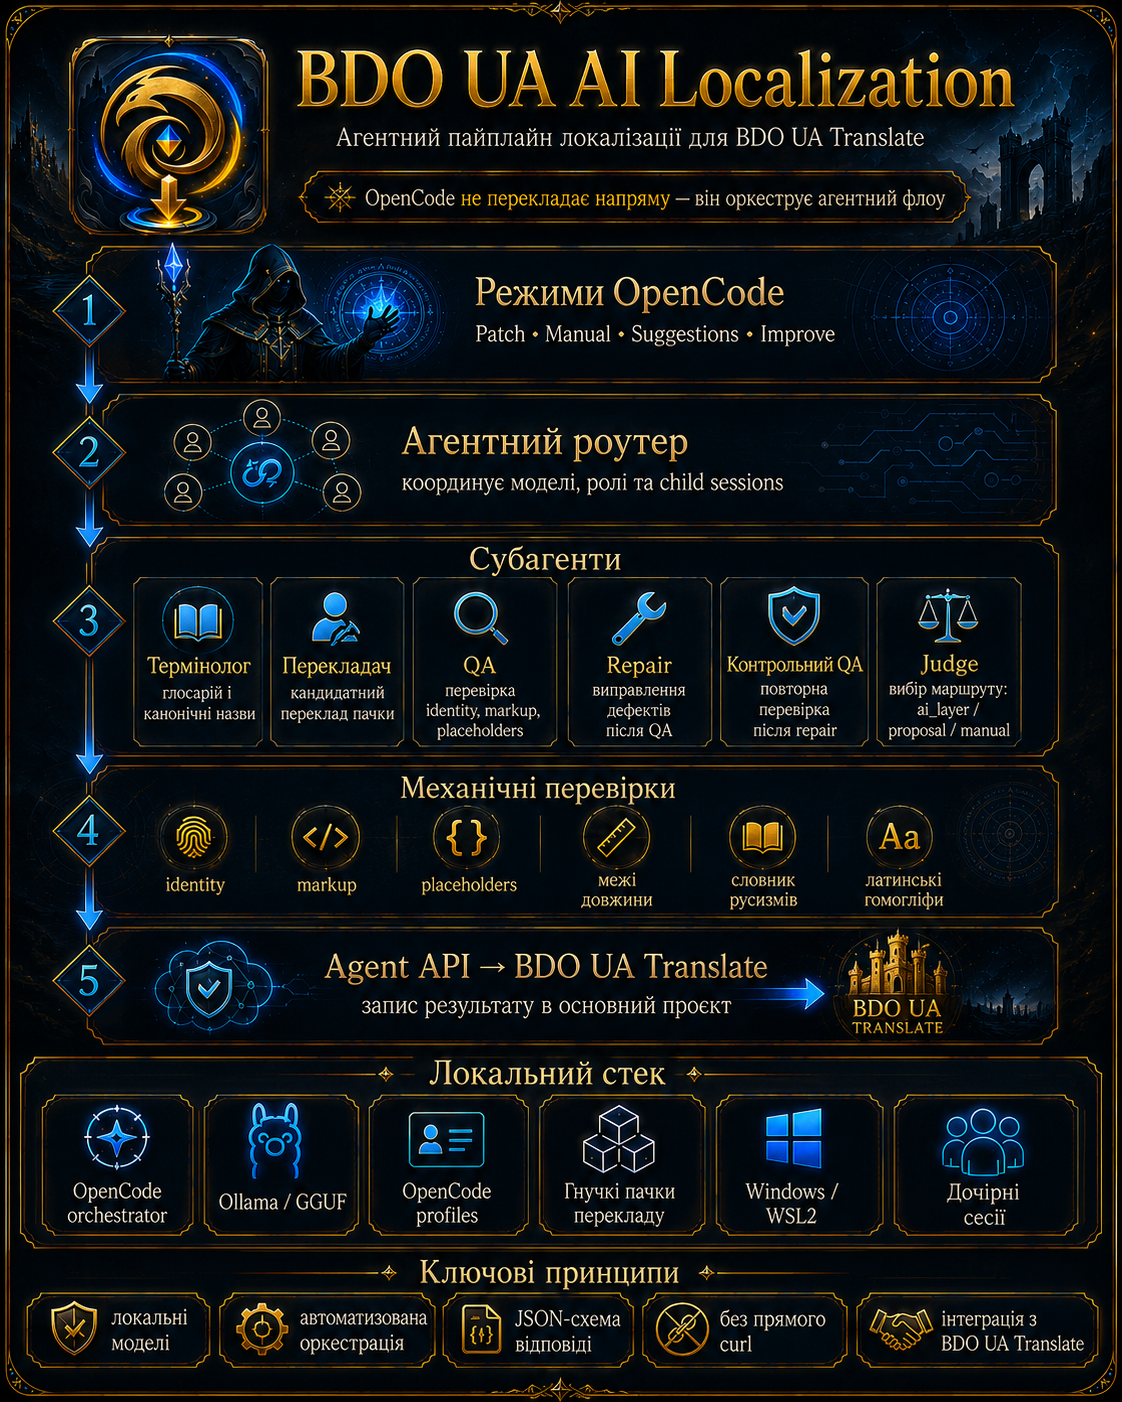
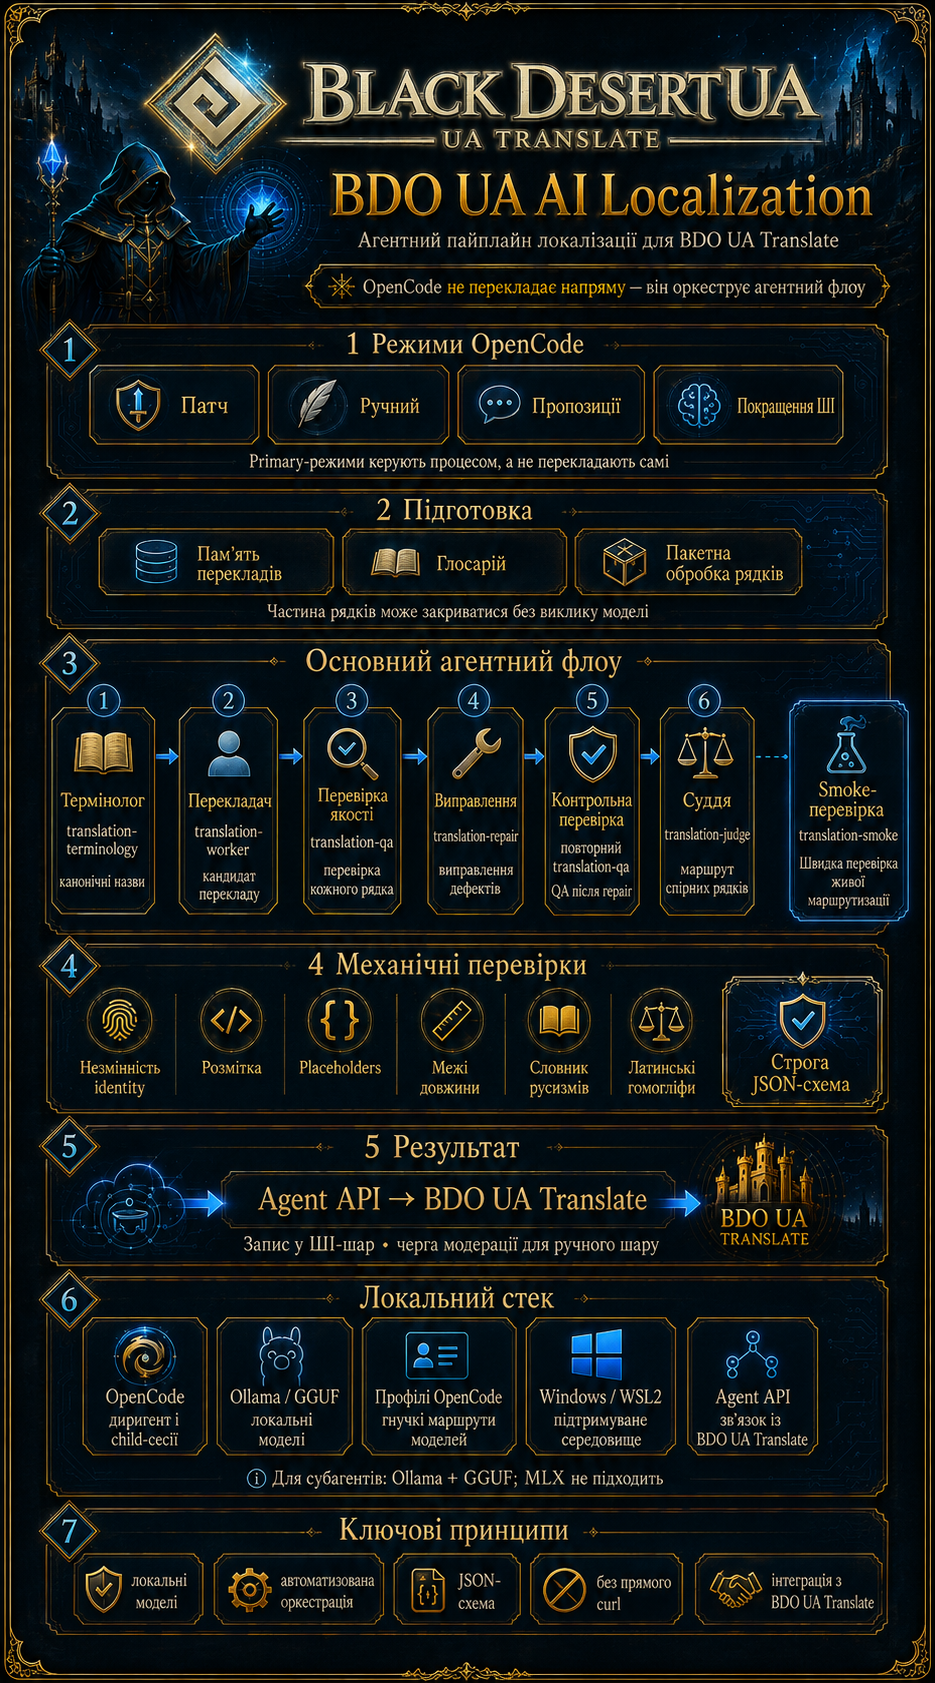
Версія: 2.1.6
Норматив поповнено секцією §12 «Клас відмови: тихий збій і фіктивна перевірка». Вона зібрана з двох діб розбору 2026-08-25…27, і кожне правило спирається на вимір, а не на гадку. Перевірка мусить іти тим самим шляхом і тим самим артефактом, що й робота, інакше вона дає хибний спокій: smog із власною спрощеною схемою півтора місяця зеленів там, де жоден хмарний субагент не працював. Порожній вивід не є відповіддю, а голе присвоєння з підстановки під `set -e` ковтає причину. Тест виконується на межі дозволеного, а не на зручному розмірі. Стан, який код пише, мусить хтось читати. Один вимір не робить правила, що тихо викидає дані. Виправлення мусить доходити до вже запущеної роботи. Дитяча сесія з нулем токенів і без інциденту формату є конфігурацією, а не тимчасовим збоєм. Факт роботи підтверджує сервер, а не звіт агента.

Найгостріші пʼять норм продубльовано в критичних заборонах, карта правил веде до §12 у всіх чотирьох дзеркалах, а gate перевіряє наявність цих текстів, щоб вони не зникли при наступному переписуванні.

Заодно закомічено оновлений банер, який власник підготував окремо.

Файли:
.cursorrules
.opencode/critical-rules.md
AGENTS.md
CLAUDE.md
QWEN.md
docs/AI_AGENT_RULES_REFERENCE.md
docs/assets/banner.png
scripts/agent-check.sh

diff --git a/docs/AI_AGENT_RULES_REFERENCE.md b/docs/AI_AGENT_RULES_REFERENCE.md
@@ -257,3 +257,43 @@
   check у `scripts/agent-check.sh` (`./bdo gate`) або hook.
 - §11.4 Номер правила сталий. Дублікат, номер чужої секції або посилання на
   неіснуюче `§N.M` є помилкою.
+
+## §12 Клас відмови: тихий збій і фіктивна перевірка
+
+Ця секція народжена з двох діб розбору 2026-08-25…27. Кожне правило тут має за
+собою вимір, а не гадку; хронологію див. `docs/FLOW_STATE.md`.
+
+- §12.1 Перевірка мусить проходити ТИМ САМИМ шляхом і тим самим артефактом, що й
+  робота. `translation-smoke` півтора місяця мав власну спрощену схему, тому
+  показував зелений маршрут на конфігурації, де жоден реальний субагент не
+  працював: `opencode-go` мав 0 успішних дитячих сесій із 3. Перевірка, яка не
+  торкається того, що ламається, гірша за її відсутність · вона дає хибний
+  спокій.
+- §12.2 Порожній вивід не є відповіддю. Кожен вихід дає машиночитану причину.
+  `mode start` і `run drive` вмирали під `set -e` мовчки, бо повідомлення про
+  помилку осідало у змінній; за це згоріла сесія з двох десятків команд. Голе
+  `x="$(cmd)"` там, де помилка можлива, є дефектом: або `if ! x="$(cmd)"`, або
+  явний вивід причини.
+- §12.3 Тест виконується на МЕЖІ дозволеного, а не на зручному розмірі. Схема з
+  полем на рядок була бездоганною на двох рядках і ламала ліміт провайдера на
+  ста, тобто дефект переїхав би з малих пачок на великі й проявився найпізніше.
+- §12.4 Стан, який код пише, мусить хтось читати. `state/quarantine.jsonl`
+  наповнювався з першого дня і не читався ніким: 18% рядків пачки осідали там
+  мовчки. Лічильник `window_rollovers` писався і не використовувався. Або
+  зʼявляється команда, що це показує, або запис прибирається.
+- §12.5 Один вимір не робить правила, яке тихо викидає дані. `source_equivalent`
+  оголосили невиправним за одним випадком (`AMD FidelityFX`), і на цьому втрачали
+  18% пачки, бо в решті випадків воркер просто не переклав. Правило, наслідком
+  якого є втрата рядка, вимагає вибірки, а не прикладу.
+- §12.6 Виправлення мусить доходити до вже запущеної роботи. OpenCode вантажить
+  промпти й плагіни один раз на старті, а staged-схема будувалась один раз на
+  пачку · тому виправлений формат не діяв ні в старій сесії, ні в пачці, що вже
+  висіла. Артефакт або перебудовується перед кожним використанням, або входить у
+  `WORKFLOW_FILES` restart-gate.
+- §12.7 Симптом «модель падає» вимагає розрізнення в коді, а не в чаті. Дитяча
+  сесія з нулем токенів і без інциденту формату означає, що запит не дійшов до
+  моделі; це конфігурація, а не тимчасовий збій, і чекати на неї добу не можна.
+  Механічну межу тримає `BDO_CHILD_SILENT_LIMIT` і причина `child_no_response`.
+- §12.8 Джерело правди про факт роботи · сервер, а не звіт агента. Після пачки
+  перевіряти залишок через `./bdo patch <N>`, а поведінку субагентів · у базі
+  OpenCode. Формулювання «пачка успішна» без цифри з API не приймається.

diff --git a/.opencode/critical-rules.md b/.opencode/critical-rules.md
@@ -159,6 +159,21 @@
 - `output/` і `state/` · робочий стан, не артефакти для коміту. Курсори пачок і
   квитанції запису в `state/` не видаляти.
 
+- **Тихий збій заборонений.** Кожен вихід скрипта дає машиночитану причину;
+  порожній вивід є дефектом, а не відповіддю. Голе `x="$(cmd)"` під `set -e`
+  там, де можлива помилка, ковтає повідомлення й убиває прогін мовчки.
+- **Перевірка мусить іти тим самим шляхом, що й робота.** Спрощена схема, окремий
+  payload або власний формат у smoke роблять перевірку фіктивною: вона зеленіє
+  там, де реальний шлях зламаний. Це гірше за відсутність перевірки.
+- Виправлення мусить доходити до вже запущеної роботи. Артефакт, від якого
+  залежить child (схема, payload, promptи, плагіни), або перебудовується перед
+  кожним використанням, або входить у `WORKFLOW_FILES` restart-gate.
+- Дитяча сесія з нулем токенів і без інциденту формату означає, що запит не
+  дійшов до моделі: це конфігурація, а не тимчасовий збій. Межу тримає
+  `BDO_CHILD_SILENT_LIMIT` і причина `child_no_response`; чекати добу заборонено.
+- Факт роботи підтверджує сервер, а не звіт агента: після пачки залишок
+  перевіряти через `./bdo patch <N>`. «Пачка успішна» без цифри з API не є фактом.
+
 ## Помилки, які тут уже робили
 
 - Курсор рухали одразу після fetch · Ctrl+C посеред пачки тихо викидав її з

diff --git a/AGENTS.md b/AGENTS.md
@@ -78,6 +78,13 @@
 - Ідею, яку власник відклав, фіксуй одразу в `docs/plans/backlog/` і реєстрі
   `docs/plans/README.md`. На питання «що покращити або додати» спершу читай
   реєстр і `docs/plans/BACKLOG.md` і назви відкладене, а не вигадуй нове.
+- **Тихий збій і фіктивна перевірка · §12 довідника.** Перевірка мусить іти тим
+  самим шляхом, що й робота, інакше вона дає хибний спокій. Порожній вивід не є
+  відповіддю: кожен вихід дає машиночитану причину, а голе `x="$(cmd)"` під
+  `set -e` є дефектом. Тест виконуй на МЕЖІ дозволеного, не на зручному розмірі.
+  Стан, який код пише, мусить хтось читати. Один вимір не робить правила, що
+  тихо викидає дані. Виправлення мусить доходити до вже запущеної роботи:
+  перебудова перед використанням або `WORKFLOW_FILES` restart-gate.
 - Flow і норматив: `docs/FLOW_STATE.md`, `docs/AI_AGENT_RULES_REFERENCE.md`,
   `docs/SECURITY.md`. Цільові gates: `./bdo gate preflight`, `docs`,
   `shell`, `agents`, `runtime`, `api`, `full`.

diff --git a/CLAUDE.md b/CLAUDE.md
@@ -78,6 +78,13 @@
 - Ідею, яку власник відклав, фіксуй одразу в `docs/plans/backlog/` і реєстрі
   `docs/plans/README.md`. На питання «що покращити або додати» спершу читай
   реєстр і `docs/plans/BACKLOG.md` і назви відкладене, а не вигадуй нове.
+- **Тихий збій і фіктивна перевірка · §12 довідника.** Перевірка мусить іти тим
+  самим шляхом, що й робота, інакше вона дає хибний спокій. Порожній вивід не є
+  відповіддю: кожен вихід дає машиночитану причину, а голе `x="$(cmd)"` під
+  `set -e` є дефектом. Тест виконуй на МЕЖІ дозволеного, не на зручному розмірі.
+  Стан, який код пише, мусить хтось читати. Один вимір не робить правила, що
+  тихо викидає дані. Виправлення мусить доходити до вже запущеної роботи:
+  перебудова перед використанням або `WORKFLOW_FILES` restart-gate.
 - Flow і норматив: `docs/FLOW_STATE.md`, `docs/AI_AGENT_RULES_REFERENCE.md`,
   `docs/SECURITY.md`. Цільові gates: `./bdo gate preflight`, `docs`,
   `shell`, `agents`, `runtime`, `api`, `full`.

diff --git a/QWEN.md b/QWEN.md
@@ -78,6 +78,13 @@
 - Ідею, яку власник відклав, фіксуй одразу в `docs/plans/backlog/` і реєстрі
   `docs/plans/README.md`. На питання «що покращити або додати» спершу читай
   реєстр і `docs/plans/BACKLOG.md` і назви відкладене, а не вигадуй нове.
+- **Тихий збій і фіктивна перевірка · §12 довідника.** Перевірка мусить іти тим
+  самим шляхом, що й робота, інакше вона дає хибний спокій. Порожній вивід не є
+  відповіддю: кожен вихід дає машиночитану причину, а голе `x="$(cmd)"` під
+  `set -e` є дефектом. Тест виконуй на МЕЖІ дозволеного, не на зручному розмірі.
+  Стан, який код пише, мусить хтось читати. Один вимір не робить правила, що
+  тихо викидає дані. Виправлення мусить доходити до вже запущеної роботи:
+  перебудова перед використанням або `WORKFLOW_FILES` restart-gate.
 - Flow і норматив: `docs/FLOW_STATE.md`, `docs/AI_AGENT_RULES_REFERENCE.md`,
   `docs/SECURITY.md`. Цільові gates: `./bdo gate preflight`, `docs`,
   `shell`, `agents`, `runtime`, `api`, `full`.
